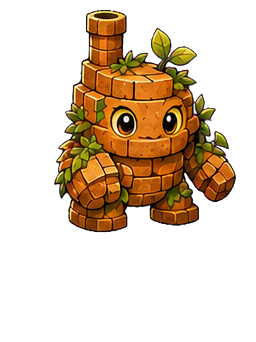
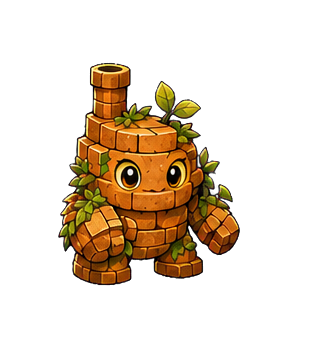
Improve Wildlings profiles and camera detection

diff --git a/games/wildlings-ar/game.js b/games/wildlings-ar/game.js
@@ -21,22 +21,34 @@ const CREATURES = [
 
 const CLUE_LABELS={leaf:'maple leaf',moss:'patch of moss',stone:'small stone',flower:'wildflower',bark:'piece of bark',water:'rain puddle',mushroom:'mushroom cap',clover:'clover',cone:'pinecone',shell:'seashell',cloud:'small cloud',acorn:'acorn',reed:'river reed',brick:'warm brick',snow:'snow crystal',ash:'charcoal fleck',starlight:'pinprick of light'};
 const VISION_TARGETS=[
-  {label:'one leaf close to the camera',clue:'leaf'},
-  {label:'a natural rock or stone close to the camera',clue:'stone'},
-  {label:'a flower close to the camera',clue:'flower'},
-  {label:'tree bark close to the camera',clue:'bark'},
-  {label:'moss close to the camera',clue:'moss'},
-  {label:'a pine cone close to the camera',clue:'cone'},
-  {label:'an acorn close to the camera',clue:'acorn'},
-  {label:'a mushroom close to the camera',clue:'mushroom'},
-  {label:'a puddle or water close to the camera',clue:'water'},
-  {label:'a hand close to the camera',clue:null},
-  {label:'an empty outdoor background',clue:null}
+  {label:'a single tree leaf',clue:'leaf'},
+  {label:'a patch of green moss',clue:'moss'},
+  {label:'a natural rock or pebble',clue:'stone'},
+  {label:'a flower blossom',clue:'flower'},
+  {label:'rough tree bark',clue:'bark'},
+  {label:'a puddle of water',clue:'water'},
+  {label:'a mushroom cap',clue:'mushroom'},
+  {label:'a three-leaf clover plant',clue:'clover'},
+  {label:'a brown pine cone',clue:'cone'},
+  {label:'a seashell',clue:'shell'},
+  {label:'a white cloud in the sky',clue:'cloud'},
+  {label:'an acorn',clue:'acorn'},
+  {label:'tall reeds or cattails',clue:'reed'},
+  {label:'a clay brick',clue:'brick'},
+  {label:'snow or ice crystals',clue:'snow'},
+  {label:'charcoal or wood ash',clue:'ash'},
+  {label:'a bright star or small point of light',clue:'starlight'},
+  {label:'only a human hand',clue:null},
+  {label:'only a person\'s face',clue:null},
+  {label:'an indoor room',clue:null},
+  {label:'an empty outdoor scene',clue:null},
+  {label:'blurry camera motion',clue:null},
+  {label:'plain grass or soil with no centered object',clue:null}
 ];
 const $=query=>document.querySelector(query);
 const storedFound=()=>{try{return JSON.parse(localStorage.getItem('wildlings-found')||'[]')}catch{return []}};
 const storedTrailSeed=()=>{try{return Number(localStorage.getItem('wildlings-trail-seed'))||20260802}catch{return 20260802}};
-const state={heading:0,targetBearing:110,hasOrientation:false,dragging:false,dragX:0,scan:0,discovered:false,active:null,queue:[],queueIndex:0,found:new Set(storedFound()),trailSeed:storedTrailSeed(),facing:'environment',stream:null,habitat:'meadow',audio:null,cameraReady:false,visionMode:'idle',classifier:null,RawImage:null,visionBusy:false,stableClue:null,stableHits:0};
+const state={heading:0,targetBearing:110,hasOrientation:false,dragging:false,dragX:0,scan:0,discovered:false,active:null,queue:[],queueIndex:0,found:new Set(storedFound()),trailSeed:storedTrailSeed(),facing:'environment',stream:null,habitat:'meadow',audio:null,cameraReady:false,visionMode:'idle',classifier:null,RawImage:null,visionBusy:false,stableClue:null,stableHits:0,stableScoreTotal:0};
 
 function seeded(seed){let value=seed>>>0;return()=>{value+=0x6d2b79f5;let mixed=value;mixed=Math.imul(mixed^(mixed>>>15),mixed|1);mixed^=mixed+Math.imul(mixed^(mixed>>>7),mixed|61);return((mixed^(mixed>>>14))>>>0)/4294967296}}
 function hashString(value){let h=2166136261;for(const char of value){h^=char.charCodeAt(0);h=Math.imul(h,16777619)}return h>>>0}
@@ -72,9 +84,9 @@ function buildLocalField(lat=37.7749,lon=-122.4194,label=''){
 
 function spawnNext(){
   if(state.visionMode==='loading'||state.visionMode==='active'){
-    state.active=null;state.discovered=false;state.scan=0;state.stableClue=null;state.stableHits=0;
+    state.active=null;state.discovered=false;state.scan=0;state.stableClue=null;state.stableHits=0;state.stableScoreTotal=0;
     const target=$('#ar-target');target.className='ar-target';target.innerHTML='';delete target.dataset.clue;
-    $('#discovery-card').classList.remove('show');$('#reticle').style.setProperty('--scan','0%');
+    $('#discovery-card').classList.remove('show');$('#reticle').style.setProperty('--scan','0%');$('#reticle').classList.remove('reticle-lock','reticle-checking');
     $('#search-copy').innerHTML='<strong>Show me something real</strong><span>Hold a leaf or rock inside the circle</span>';
     return
   }
@@ -102,7 +114,7 @@ function updateView(){
 }
 
 function reveal(){
-  if(state.discovered)return;state.discovered=true;$('#ar-target').classList.add('visible','discovered');$('#reticle').classList.remove('reticle-lock');$('#edge-arrow').classList.remove('show');
+  if(state.discovered)return;state.discovered=true;$('#ar-target').classList.add('visible','discovered');$('#reticle').classList.remove('reticle-lock','reticle-checking');$('#edge-arrow').classList.remove('show');
   $('#search-copy').innerHTML=`<strong>${state.active.name}</strong><span>A new Wildling appeared</span>`;$('#discovery-rarity').textContent=`${state.active.rarity} wildling · ${state.habitat}`;$('#discovery-name').textContent=state.active.name;$('#discovery-copy').textContent=state.active.bio;
   setTimeout(()=>$('#discovery-card').classList.add('show'),430);ping(620,.08);setTimeout(()=>ping(880,.1),90)
 }
@@ -117,7 +129,18 @@ function closeSheets(){document.querySelectorAll('.sheet').forEach(s=>s.classLis
 
 async function startCamera(){
   if(!navigator.mediaDevices?.getUserMedia){toast('Camera unavailable — field demo is active');return}
-  try{state.stream?.getTracks().forEach(track=>track.stop());state.stream=await navigator.mediaDevices.getUserMedia({video:{facingMode:{ideal:state.facing},width:{ideal:1280},height:{ideal:1920}},audio:false});$('#camera').srcObject=state.stream;state.cameraReady=true;document.body.classList.add('camera-ready');document.body.classList.toggle('front-camera',state.facing==='user')}
+  try{
+    state.cameraReady=false;clearDetectedClue('Starting the camera','Keep the object zone clear','Camera is focusing');
+    state.stream?.getTracks().forEach(track=>track.stop());
+    state.stream=await navigator.mediaDevices.getUserMedia({video:{facingMode:{ideal:state.facing},width:{ideal:1920},height:{ideal:1080},frameRate:{ideal:30,max:30}},audio:false});
+    const video=$('#camera'),track=state.stream.getVideoTracks()[0];video.srcObject=state.stream;await video.play();
+    const capabilities=track?.getCapabilities?.()||{},advanced={};
+    if(capabilities.focusMode?.includes('continuous'))advanced.focusMode='continuous';
+    if(capabilities.exposureMode?.includes('continuous'))advanced.exposureMode='continuous';
+    if(capabilities.whiteBalanceMode?.includes('continuous'))advanced.whiteBalanceMode='continuous';
+    if(Object.keys(advanced).length)await track.applyConstraints({advanced:[advanced]}).catch(()=>{});
+    state.cameraReady=true;document.body.classList.add('camera-ready');document.body.classList.toggle('front-camera',state.facing==='user')
+  }
   catch{state.cameraReady=false;toast('Camera blocked — field demo is active')}
 }
 async function startMotion(){
@@ -136,34 +159,54 @@ function creatureForClue(clue){
   const localMatch=state.queue.find(creature=>matches.includes(creature));
   return localMatch||matches[Math.abs(hashString(`${clue}-${state.trailSeed}`))%matches.length]||CREATURES[0]
 }
+function frameQuality(canvas){
+  const {data}=canvas.getContext('2d',{willReadFrequently:true}).getImageData(0,0,canvas.width,canvas.height);let total=0,squared=0,edges=0,samples=0;
+  for(let y=2;y<canvas.height;y+=3){for(let x=2;x<canvas.width;x+=3){const i=(y*canvas.width+x)*4,left=i-8,above=i-canvas.width*8;const lum=data[i]*.2126+data[i+1]*.7152+data[i+2]*.0722;const lumLeft=data[left]*.2126+data[left+1]*.7152+data[left+2]*.0722;const lumAbove=data[above]*.2126+data[above+1]*.7152+data[above+2]*.0722;total+=lum;squared+=lum*lum;edges+=(Math.abs(lum-lumLeft)+Math.abs(lum-lumAbove))/2;samples++}}
+  const mean=total/samples,contrast=Math.sqrt(Math.max(0,squared/samples-mean*mean));return{mean,contrast,edge:edges/samples}
+}
 function drawCameraCrop(){
-  const video=$('#camera'),canvas=$('#vision-canvas');if(video.readyState<2||!video.videoWidth)return null;
-  const size=Math.min(video.videoWidth,video.videoHeight)*.56,sx=(video.videoWidth-size)/2,sy=(video.videoHeight-size)/2;
-  const context=canvas.getContext('2d',{willReadFrequently:true});context.drawImage(video,sx,sy,size,size,0,0,canvas.width,canvas.height);return canvas
+  const video=$('#camera'),canvas=$('#vision-canvas'),reticle=$('#reticle');if(video.readyState<2||!video.videoWidth)return null;
+  const videoRect=video.getBoundingClientRect(),targetRect=reticle.getBoundingClientRect(),scale=Math.max(videoRect.width/video.videoWidth,videoRect.height/video.videoHeight);
+  const renderedWidth=video.videoWidth*scale,renderedHeight=video.videoHeight*scale,offsetX=(renderedWidth-videoRect.width)/2,offsetY=(renderedHeight-videoRect.height)/2;
+  let centerX=(targetRect.left+targetRect.width/2-videoRect.left+offsetX)/scale;const centerY=(targetRect.top+targetRect.height/2-videoRect.top+offsetY)/scale;
+  if(state.facing==='user')centerX=video.videoWidth-centerX;
+  const requestedSize=Math.max(targetRect.width,targetRect.height)*1.35/scale,size=Math.min(requestedSize,video.videoWidth,video.videoHeight);
+  const sx=Math.max(0,Math.min(video.videoWidth-size,centerX-size/2)),sy=Math.max(0,Math.min(video.videoHeight-size,centerY-size/2));
+  const context=canvas.getContext('2d',{willReadFrequently:true});context.clearRect(0,0,canvas.width,canvas.height);context.drawImage(video,sx,sy,size,size,0,0,canvas.width,canvas.height);return{canvas,quality:frameQuality(canvas)}
+}
+function showPossibleClue(clue,score){
+  const name=CLUE_LABELS[clue]||clue;state.scan=Math.min(75,state.stableHits*25);$('#reticle').style.setProperty('--scan',`${state.scan}%`);$('#reticle').classList.add('reticle-checking');$('#reticle').classList.remove('reticle-lock');
+  $('#search-copy').innerHTML=`<strong>Checking ${name}</strong><span>Keep only that object inside the circle</span>`;setVisionStatus(`${name} · match ${state.stableHits} of 4`,'checking')
 }
 function showDetectedClue(clue,score){
-  if(state.stableClue!==clue){state.stableClue=clue;state.stableHits=0;state.scan=Math.max(0,state.scan-28)}
-  state.stableHits+=1;state.active=creatureForClue(clue);
+  state.active=creatureForClue(clue);
   const target=$('#ar-target');
   if(!target.dataset.clue||target.dataset.clue!==clue){target.dataset.clue=clue;target.innerHTML=`<div class="clue-art">${clueArt(clue)}</div><div class="creature-art">${creatureArt(state.active)}</div>`}
   target.className='ar-target visible';target.style.left='50%';target.style.top='50%';
-  state.scan=Math.min(100,state.scan+(score>.5?42:34));$('#reticle').style.setProperty('--scan',`${state.scan}%`);$('#reticle').classList.add('reticle-lock');
+  state.scan=100;$('#reticle').style.setProperty('--scan','100%');$('#reticle').classList.remove('reticle-checking');$('#reticle').classList.add('reticle-lock');
   const name=CLUE_LABELS[clue]||clue;$('#search-copy').innerHTML=`<strong>Real ${name} detected</strong><span>Hold still — something is waking</span>`;setVisionStatus(`${name} seen · ${Math.round(score*100)}%`,'seeing');
-  if(state.scan>=100)reveal()
+  reveal()
 }
-function clearDetectedClue(){
-  state.scan=Math.max(0,state.scan-22);if(state.scan===0){state.stableClue=null;state.stableHits=0;$('#ar-target').classList.remove('visible')}
-  $('#reticle').style.setProperty('--scan',`${state.scan}%`);$('#reticle').classList.remove('reticle-lock');
-  $('#search-copy').innerHTML='<strong>Show me something real</strong><span>Hold a leaf or rock inside the circle</span>';setVisionStatus('Nature Lens is looking','ready')
+function clearDetectedClue(message='Center one outdoor object',detail='Fill the circle and hold still',status='Nature Lens is looking'){
+  state.scan=0;state.stableClue=null;state.stableHits=0;state.stableScoreTotal=0;$('#ar-target').classList.remove('visible');
+  $('#reticle').style.setProperty('--scan','0%');$('#reticle').classList.remove('reticle-lock','reticle-checking');
+  $('#search-copy').innerHTML=`<strong>${message}</strong><span>${detail}</span>`;setVisionStatus(status,'ready')
 }
 async function scanNatureFrame(){
   if(state.visionMode!=='active'||state.visionBusy||state.discovered||document.querySelector('.sheet.open'))return;
-  const canvas=drawCameraCrop();if(!canvas)return;state.visionBusy=true;
+  const frame=drawCameraCrop();if(!frame)return;state.visionBusy=true;
   try{
-    const image=state.RawImage.fromCanvas(canvas);const labels=VISION_TARGETS.map(target=>target.label);
-    const results=await state.classifier(image,labels,{hypothesis_template:'This is a photo of {}.'});
-    const best=results[0],runnerUp=results[1];const target=VISION_TARGETS.find(item=>item.label===best?.label);
-    if(target?.clue&&best.score>=.27&&best.score-(runnerUp?.score||0)>=.025)showDetectedClue(target.clue,best.score);else clearDetectedClue()
+    if(frame.quality.mean<18&&frame.quality.contrast<14){clearDetectedClue('The view is too dark','Find more light, then hold still','More light needed');return}
+    if(frame.quality.mean>238){clearDetectedClue('Too much glare','Tilt the object away from bright light','Reduce glare');return}
+    if(frame.quality.contrast<14||frame.quality.edge<4.8){clearDetectedClue('Move a little closer','Fill the circle with one clear object','Object not defined');return}
+    const image=state.RawImage.fromCanvas(frame.canvas),labels=VISION_TARGETS.map(target=>target.label);
+    const results=await state.classifier(image,labels,{hypothesis_template:'The object in the center is {}.'});
+    const best=results[0],runnerUp=results[1],target=VISION_TARGETS.find(item=>item.label===best?.label),margin=best.score-(runnerUp?.score||0),dominance=best.score/Math.max(.001,runnerUp?.score||0);
+    const confident=target?.clue&&best.score>=.14&&margin>=.018&&dominance>=1.16;
+    if(!confident){clearDetectedClue('Not sure yet','Show one leaf, rock, flower, or other clue','No clear match');return}
+    if(state.stableClue===target.clue){state.stableHits+=1;state.stableScoreTotal+=best.score}else{state.stableClue=target.clue;state.stableHits=1;state.stableScoreTotal=best.score}
+    const averageScore=state.stableScoreTotal/state.stableHits;
+    if(state.stableHits>=4)showDetectedClue(target.clue,averageScore);else showPossibleClue(target.clue,best.score)
   }catch(error){console.warn('Nature Lens frame skipped',error);clearDetectedClue()}finally{state.visionBusy=false}
 }
 async function visionLoop(){
@@ -185,7 +228,7 @@ function burst(){const rect=$('#ar-target').getBoundingClientRect();for(let i=0;
 
 $('#start-button').addEventListener('click',begin);$('#befriend').addEventListener('click',befriend);$('#ar-target').addEventListener('click',()=>state.discovered&&befriend());
 $('#guide-button').addEventListener('click',()=>openSheet('guide-sheet'));$('#info-button').addEventListener('click',()=>openSheet('info-sheet'));document.querySelectorAll('.close-sheet').forEach(button=>button.addEventListener('click',closeSheets));
-$('#hint-button').addEventListener('click',()=>{if(state.visionMode==='active'||state.visionMode==='loading'){toast('Fill the circle with one real leaf, rock, or flower and hold still');return}const diff=normalizeAngle(state.targetBearing-state.heading);toast(Math.abs(diff)<35?'Very close — hold the clue in the circle':diff>0?'Turn to your right':'Turn to your left')});
+$('#hint-button').addEventListener('click',()=>{if(state.visionMode==='active'||state.visionMode==='loading'){toast('Fill the circle with one real outdoor object and hold still for four matches');return}const diff=normalizeAngle(state.targetBearing-state.heading);toast(Math.abs(diff)<35?'Very close — hold the clue in the circle':diff>0?'Turn to your right':'Turn to your left')});
 $('#flip-camera').addEventListener('click',async()=>{state.facing=state.facing==='environment'?'user':'environment';await startCamera()});
 $('#new-trail').addEventListener('click',()=>{state.trailSeed=Date.now();try{localStorage.setItem('wildlings-trail-seed',state.trailSeed)}catch{}closeSheets();startLocation();toast('A new local trail has opened')});
 window.addEventListener('pointerdown',event=>{if(event.target.closest('button,.sheet'))return;state.dragging=true;state.dragX=event.clientX});window.addEventListener('pointermove',event=>{if(!state.dragging||state.hasOrientation)return;state.heading=(state.heading-(event.clientX-state.dragX)*.38+360)%360;state.dragX=event.clientX});window.addEventListener('pointerup',()=>state.dragging=false);

diff --git a/games/wildlings-ar/style.css b/games/wildlings-ar/style.css
@@ -26,8 +26,11 @@ body.playing .start-screen{opacity:0;visibility:hidden;pointer-events:none}.star
 .compass{position:absolute;top:calc(var(--safe-top) + 60px);left:50%;width:164px;height:28px;transform:translateX(-50%);overflow:hidden;opacity:.8}.compass-track{position:absolute;top:0;left:50%;display:flex;gap:32px;align-items:center;transform:translateX(-50%);font:700 9px/1 Avenir,sans-serif;letter-spacing:.14em}.compass:after{content:"";position:absolute;top:0;left:50%;height:18px;border-left:1px solid var(--paper)}
 .search-copy{position:absolute;top:21%;left:50%;width:min(84vw,360px);transform:translateX(-50%);text-align:center;text-shadow:0 2px 12px rgba(0,0,0,.8)}.search-copy strong{display:block;font:400 22px/1.1 Georgia,serif}.search-copy span{display:block;margin-top:7px;font-size:10px;font-weight:750;letter-spacing:.15em;text-transform:uppercase;opacity:.72}
 .vision-chip{position:absolute;top:calc(21% + 64px);left:50%;min-height:26px;max-width:82vw;padding:6px 10px;display:flex;align-items:center;gap:7px;transform:translateX(-50%);border:1px solid var(--line);border-radius:20px;background:var(--glass);backdrop-filter:blur(12px);-webkit-backdrop-filter:blur(12px);font-size:8px;font-weight:800;letter-spacing:.12em;text-transform:uppercase;white-space:nowrap}.vision-chip i{width:7px;height:7px;border-radius:50%;background:#d1b46f;box-shadow:0 0 0 3px rgba(209,180,111,.14)}.vision-chip.ready i{background:#a9d785;box-shadow:0 0 0 3px rgba(169,215,133,.14);animation:breathe .8s ease-in-out infinite alternate}.vision-chip.seeing{color:var(--ink);background:var(--sun);border-color:var(--sun)}.vision-chip.seeing i{background:var(--rust);box-shadow:none}
-.reticle{position:absolute;top:50%;left:50%;width:124px;height:124px;transform:translate(-50%,-50%)}.reticle:before,.reticle:after{content:"";position:absolute;inset:0;border:1px solid rgba(255,255,255,.42);border-radius:50%}.reticle:after{inset:49%;border-radius:0;border-width:1px 0 0 1px}.reticle-lock:before{border-color:var(--sun);box-shadow:0 0 28px rgba(240,188,85,.34);animation:breathe 1.2s ease-in-out infinite alternate}.scan-ring{position:absolute;inset:-4px;border-radius:50%;background:conic-gradient(var(--sun) var(--scan,0%),transparent 0);mask:radial-gradient(farthest-side,transparent calc(100% - 3px),#000 0);-webkit-mask:radial-gradient(farthest-side,transparent calc(100% - 3px),#000 0)}
+.vision-chip.checking{border-color:rgba(240,188,85,.7);background:rgba(23,32,25,.86)}.vision-chip.checking i{background:var(--sun);box-shadow:0 0 0 3px rgba(240,188,85,.14)}
+.reticle{position:absolute;top:50%;left:50%;width:124px;height:124px;transform:translate(-50%,-50%)}.reticle:before,.reticle:after{content:"";position:absolute;inset:0;border:1px solid rgba(255,255,255,.42);border-radius:50%}.reticle:after{inset:49%;border-radius:0;border-width:1px 0 0 1px}.reticle-checking:before{border-color:var(--sun);box-shadow:0 0 22px rgba(240,188,85,.24)}.reticle-lock:before{border-color:var(--sun);box-shadow:0 0 28px rgba(240,188,85,.34);animation:breathe 1.2s ease-in-out infinite alternate}.scan-ring{position:absolute;inset:-4px;border-radius:50%;background:conic-gradient(var(--sun) var(--scan,0%),transparent 0);mask:radial-gradient(farthest-side,transparent calc(100% - 3px),#000 0);-webkit-mask:radial-gradient(farthest-side,transparent calc(100% - 3px),#000 0)}
+.target-zone-label{position:absolute;left:50%;top:calc(100% + 13px);padding:4px 7px;transform:translateX(-50%);border:1px solid rgba(244,240,229,.28);border-radius:12px;background:rgba(23,32,25,.58);font-size:7px;font-weight:800;letter-spacing:.16em;text-transform:uppercase;white-space:nowrap;text-shadow:0 1px 5px rgba(0,0,0,.7)}
 .reticle.vision-ready:before{border-color:rgba(183,215,148,.9);box-shadow:0 0 0 1px rgba(32,61,43,.25),inset 0 0 24px rgba(183,215,148,.08)}.reticle.vision-ready:after{border-color:rgba(183,215,148,.9)}
+.reticle.vision-ready.reticle-checking:before{border-color:var(--sun);box-shadow:0 0 22px rgba(240,188,85,.24)}.reticle.vision-ready.reticle-lock:before{border-color:var(--sun);box-shadow:0 0 28px rgba(240,188,85,.34);animation:breathe 1.2s ease-in-out infinite alternate}
 .ar-target{position:absolute;z-index:7;left:50%;top:50%;width:146px;height:146px;border:0;background:transparent;padding:0;transform:translate(-50%,-50%) scale(.6);opacity:0;pointer-events:none;transition:left .16s linear,top .16s linear,opacity .25s,transform .35s cubic-bezier(.2,.8,.2,1);filter:drop-shadow(0 10px 18px rgba(0,0,0,.35))}.ar-target.visible{opacity:1;transform:translate(-50%,-50%) scale(1)}.ar-target.discovered{width:210px;height:230px;pointer-events:auto;cursor:pointer;animation:float 2.3s ease-in-out infinite}.clue-art,.creature-art{position:absolute;inset:0;transition:opacity .5s,transform .6s cubic-bezier(.2,.8,.2,1)}.creature-art{opacity:0;transform:scale(.45) rotate(-12deg)}.ar-target.discovered .clue-art{opacity:0;transform:scale(1.8) rotate(30deg)}.ar-target.discovered .creature-art{opacity:1;transform:scale(1) rotate(0)}.clue-art{animation:clue-shiver .5s ease-in-out infinite alternate}.ar-target svg{width:100%;height:100%;overflow:visible}.wildling-sprite{display:block;width:100%;height:100%;object-fit:contain}.creature-shadow{fill:rgba(0,0,0,.18)}.eye{fill:#172019}.eye-glint{fill:#fff}
 .edge-arrow{position:absolute;left:50%;top:50%;width:50px;height:50px;transform:translate(-50%,-50%);opacity:0;transition:opacity .25s}.edge-arrow.show{opacity:1}.edge-arrow span{width:50px;height:50px;display:grid;place-items:center;border:1px solid var(--line);border-radius:50%;background:var(--glass);backdrop-filter:blur(12px);font-size:20px;transform:rotate(var(--arrow-rotation,0deg))}
 .discovery-card{position:absolute;left:16px;right:16px;bottom:calc(var(--safe-bottom) + 77px);z-index:10;padding:17px;display:grid;grid-template-columns:1fr auto;gap:8px 16px;color:var(--ink);background:rgba(244,240,229,.95);border-radius:3px;box-shadow:0 18px 45px rgba(7,17,10,.36);pointer-events:auto;transform:translateY(28px);opacity:0;visibility:hidden;transition:.35s cubic-bezier(.2,.8,.2,1)}.discovery-card.show{transform:translateY(0);opacity:1;visibility:visible}.discovery-card .rarity{grid-column:1/-1;margin:0;font-size:9px;font-weight:800;letter-spacing:.17em;text-transform:uppercase;color:var(--rust)}.discovery-card h2{margin:0;font:400 30px/1 Georgia,serif;letter-spacing:-.02em}.discovery-card p{margin:7px 0 0;font:400 13px/1.45 Georgia,serif;color:#4e5b50}.befriend{grid-row:2/4;grid-column:2;align-self:center;width:56px;height:56px;border:0;border-radius:50%;background:var(--moss);color:var(--paper);cursor:pointer;font-size:20px}

diff --git a/games/wildlings-ar/index.html b/games/wildlings-ar/index.html
@@ -39,7 +39,7 @@
     <div class="compass" aria-hidden="true"><div class="compass-track"><span>W</span><span>NW</span><span>N</span><span>NE</span><span>E</span></div></div>
     <div class="search-copy" id="search-copy"><strong>Preparing the Nature Lens</strong><span>Hold a real leaf or rock inside the circle</span></div>
     <div class="vision-chip" id="vision-status"><i></i><span>Waiting for camera</span></div>
-    <div class="reticle" id="reticle"><div class="scan-ring"></div></div>
+    <div class="reticle" id="reticle"><div class="scan-ring"></div><span class="target-zone-label">Object zone</span></div>
     <div class="edge-arrow" id="edge-arrow"><span>↑</span></div>
     <button class="ar-target" id="ar-target" aria-label="Hidden nature clue"></button>
     <article class="discovery-card" id="discovery-card">
@@ -64,8 +64,8 @@
     <div class="sheet-handle"></div>
     <div class="sheet-head"><div><p>Field method</p><h2 id="info-title">How to look</h2></div><button class="close-sheet" aria-label="Close instructions">×</button></div>
     <div class="about-copy">
-      <p><strong>1.</strong> Go outdoors and place a real leaf, rock, flower, bark, moss, pinecone, acorn, mushroom, or puddle inside the circle.</p>
-      <p><strong>2.</strong> Hold still while the Nature Lens recognizes it. The real object becomes the clue and transforms into a matching creature.</p>
+      <p><strong>1.</strong> Go outdoors and place one real object inside the circle. The lens knows leaves, rocks, flowers, bark, moss, pinecones, acorns, mushrooms, water, clover, shells, clouds, reeds, bricks, snow, ash, and points of light.</p>
+      <p><strong>2.</strong> Fill the object zone and hold still for four matching readings. The real object becomes the clue and transforms into a matching creature.</p>
       <p><strong>3.</strong> Tap the ＋ to befriend the Wildling. Walk somewhere new to meet a different local population.</p>
       <hr>
       <p>The recognition model downloads on first play, then analyzes small camera crops on your device. Camera images are never uploaded. Location is rounded into a broad habitat cell and is not stored or sent anywhere.</p>

diff --git a/CHANGELOG.md b/CHANGELOG.md
@@ -7,6 +7,8 @@
 - Upgraded Wildlings with an on-device Nature Lens that classifies real leaves, rocks, flowers, bark, moss, pinecones, acorns, mushrooms, and water in the center camera crop before revealing a matching creature.
 - Replaced the placeholder creature drawings with 18 generated transparent sprites blending Fossil Fury's pulp-comic texture with Clash of Critters' chunky, competitive mobile-battler energy.
 - Revised the full Wildlings roster to remove angry or frowning expressions and replaced the fairy-like Dandy Drift with a cheerful, non-humanoid dandelion puff creature.
+- Recut all 18 Wildlings with creature-specific isolation boxes so profile art no longer includes fragments of neighboring sprites.
+- Aligned Nature Lens analysis to the visible object zone, added lighting and focus checks, expanded recognition to every field-guide clue, and required four consistent classifications before a creature reveal.
 
 ## 2026-07-21
 
